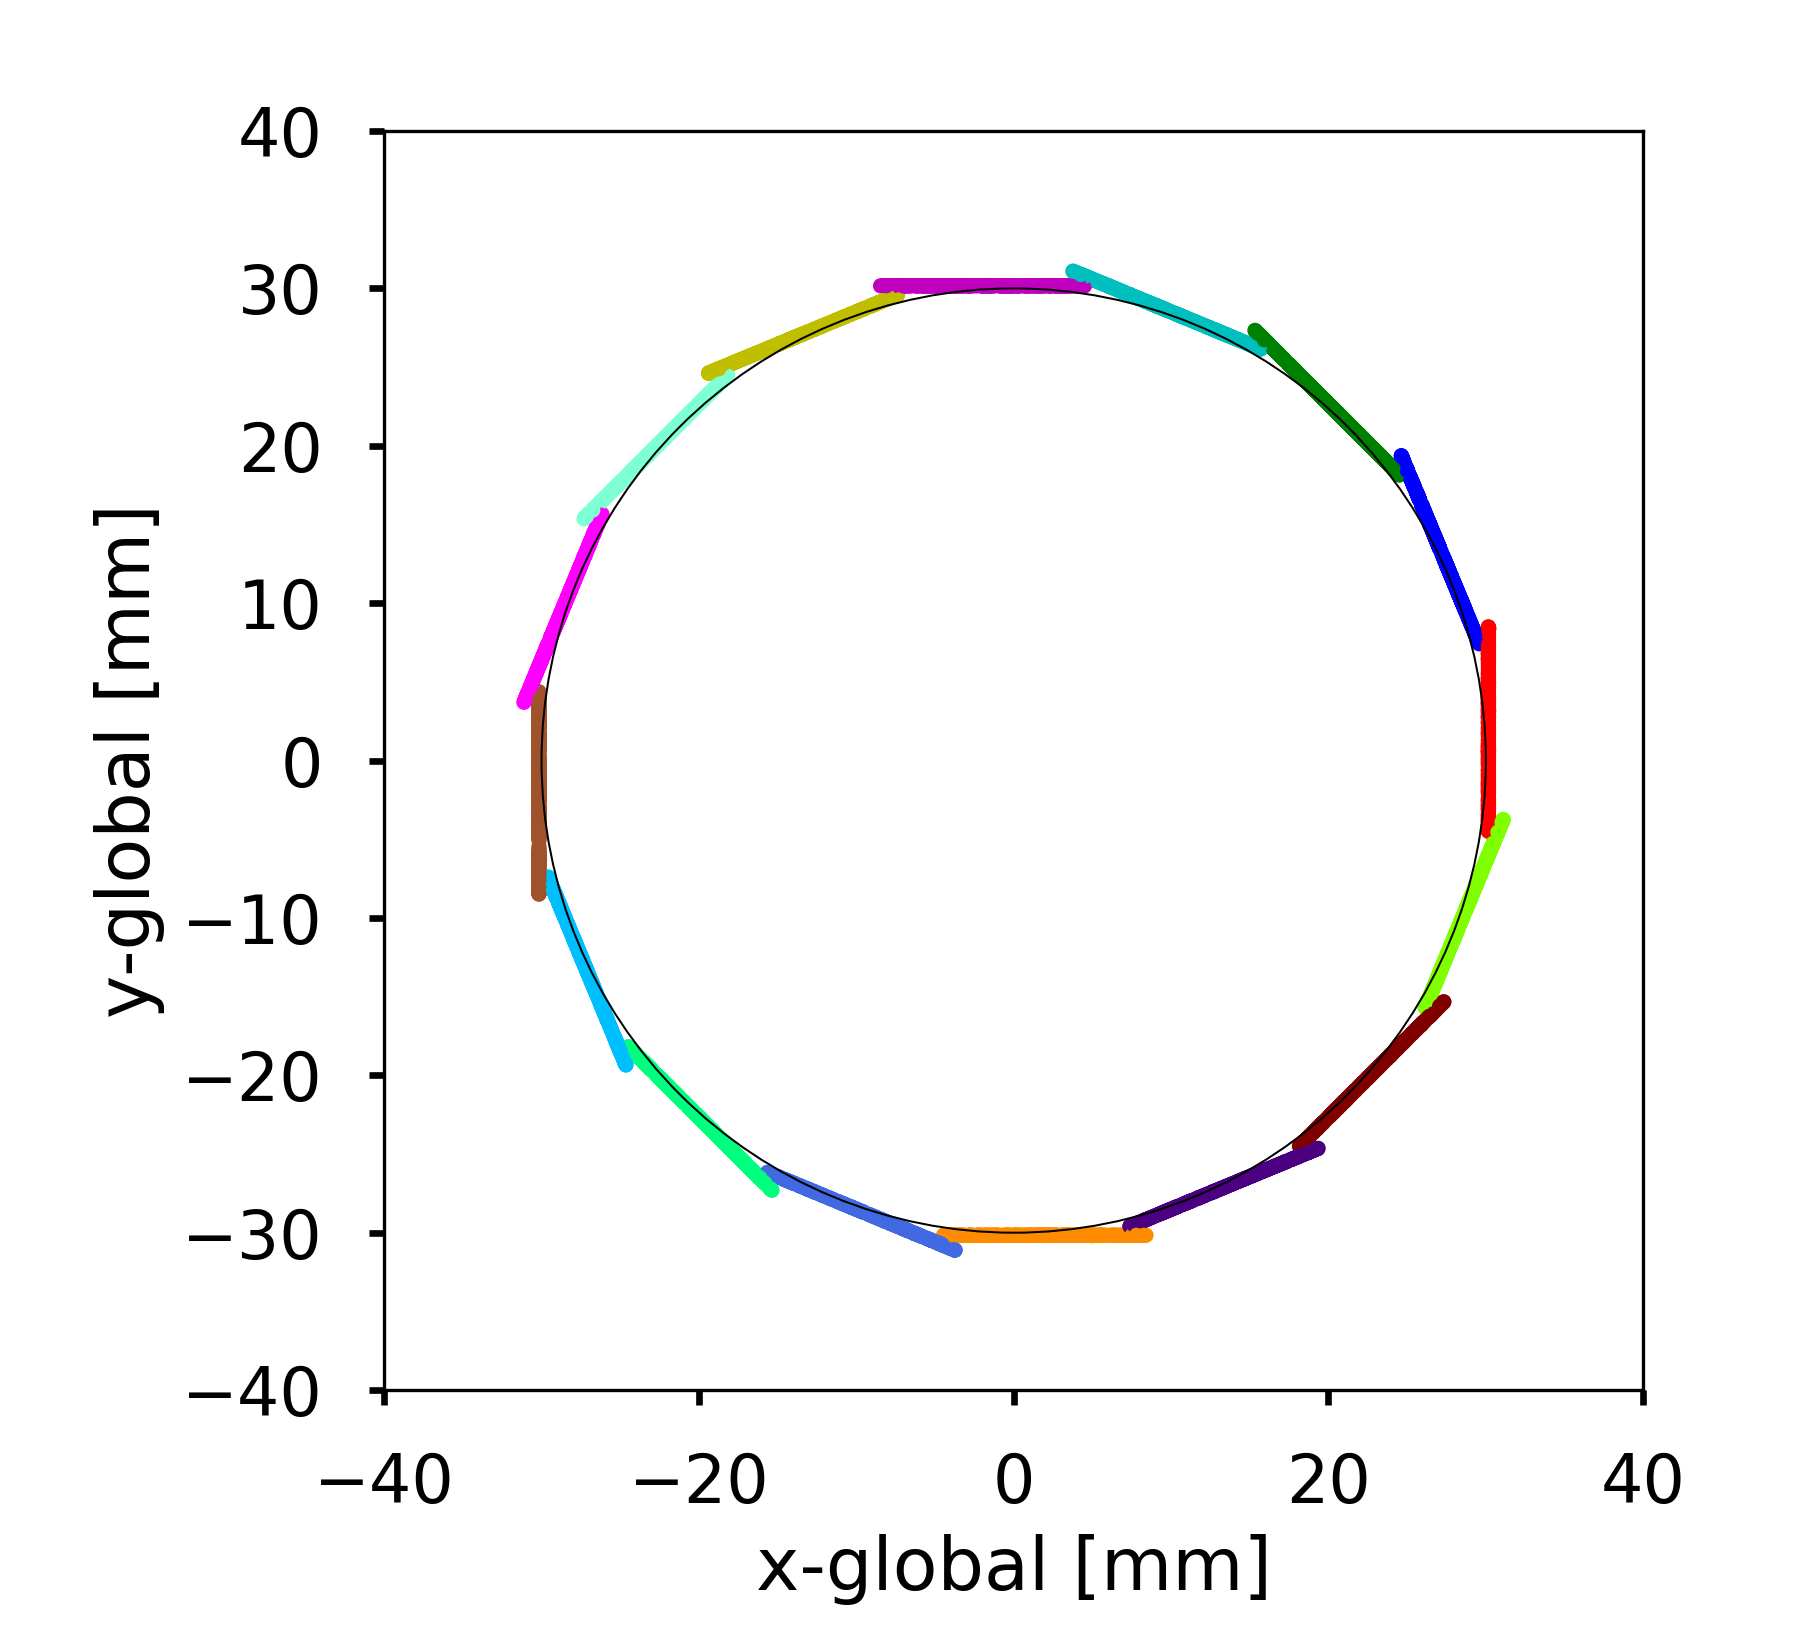
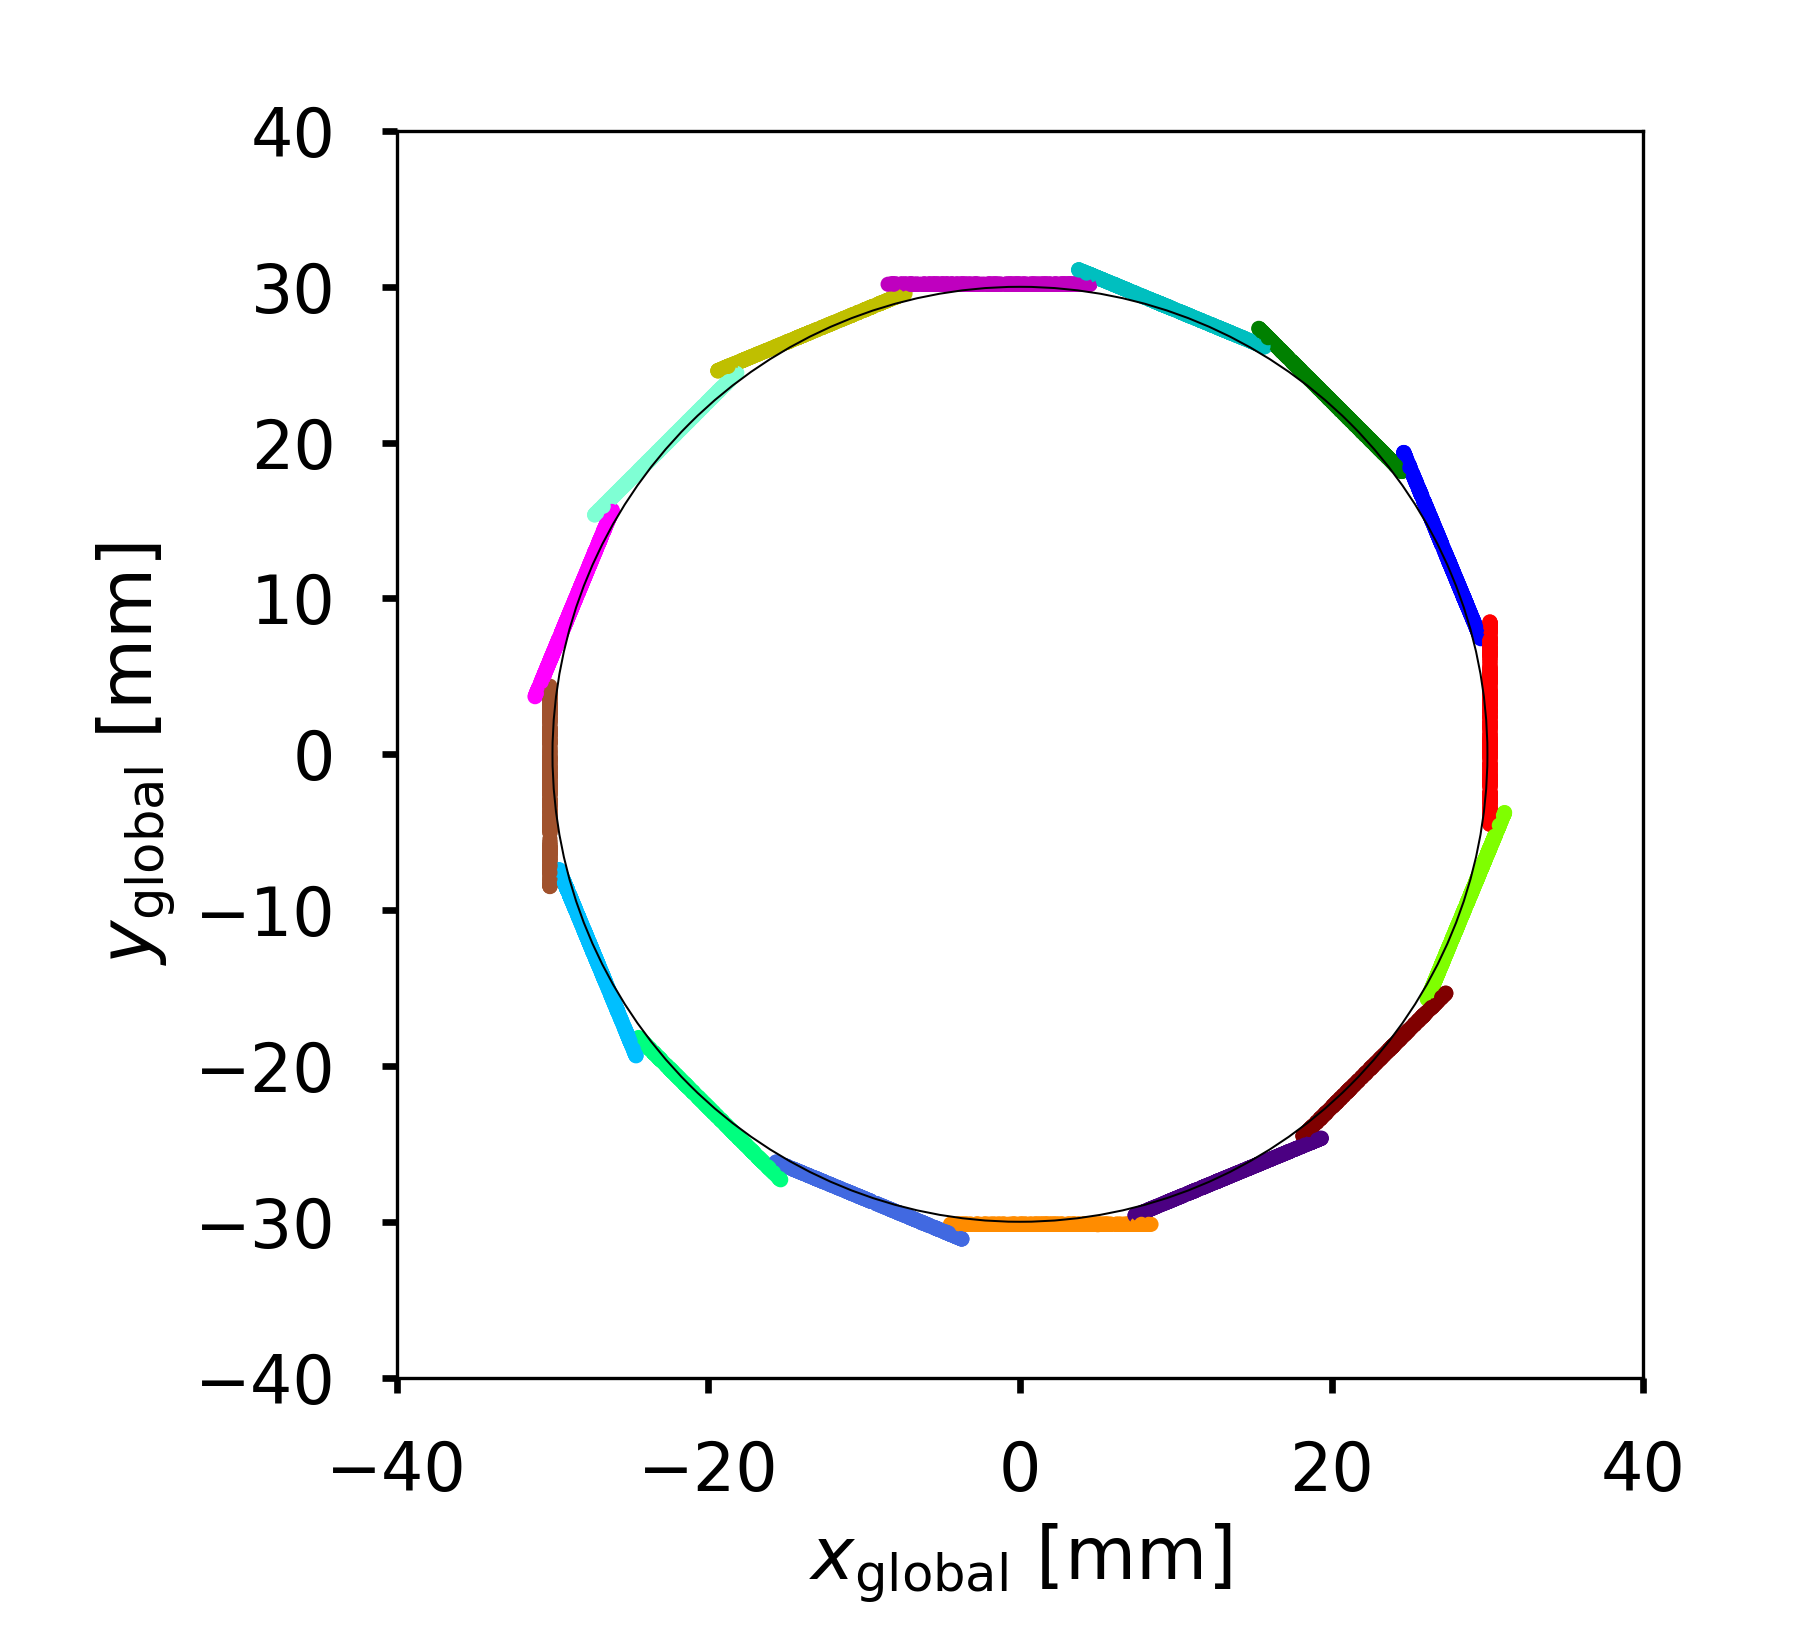
Update module plots to be y_local etc. not y-local

diff --git a/paperPlots/moduleLayoutPlot.py b/paperPlots/moduleLayoutPlot.py
@@ -38,8 +38,8 @@ def plotHitsXY(sig,pltStandalone=True,pltShow=True,alpha = 1,figsize=(4,3.8)): #
     circle=plt.Circle((0,0), 30, fill=0, color='k', label="Barrel")
     ax.add_patch(circle)
     ax.set_title("Hits in the barrel xy-plane")
-    ax.set_xlabel("x-global [mm]")
-    ax.set_ylabel("y-global [mm]")
+    ax.set_xlabel(r"$x_{\mathrm{global}}$ [mm]")
+    ax.set_ylabel(r"$y_{\mathrm{global}}$ [mm]")
     ax.set_xlim(-40,40)
     ax.set_ylim(-40,40)
     plt.tight_layout()
@@ -65,8 +65,9 @@ def plotRZPlane(sig,figsize=(4,1.5)):#figsize defaults for when not using poster
     # plt.subplot(212)
     # plt.scatter(sig['hit_z'],sig["hit_r"],s=1,c=colors, label="Signal hits") #to confirm that hit_z is the same as z-global
     plt.ylim([0,60])
-    plt.xlabel("z-global [mm]")
-    plt.ylabel("radius [mm]")
+    plt.xlabel(r"$z_{\mathrm{global}}$ [mm]")
+    # plt.ylabel("radius [mm]")
+    plt.ylabel(r"$r_{\mathrm{global}}$ [mm]")
 
     plt.tight_layout()
     plt.savefig("ModuleLayoutRZ.png")
